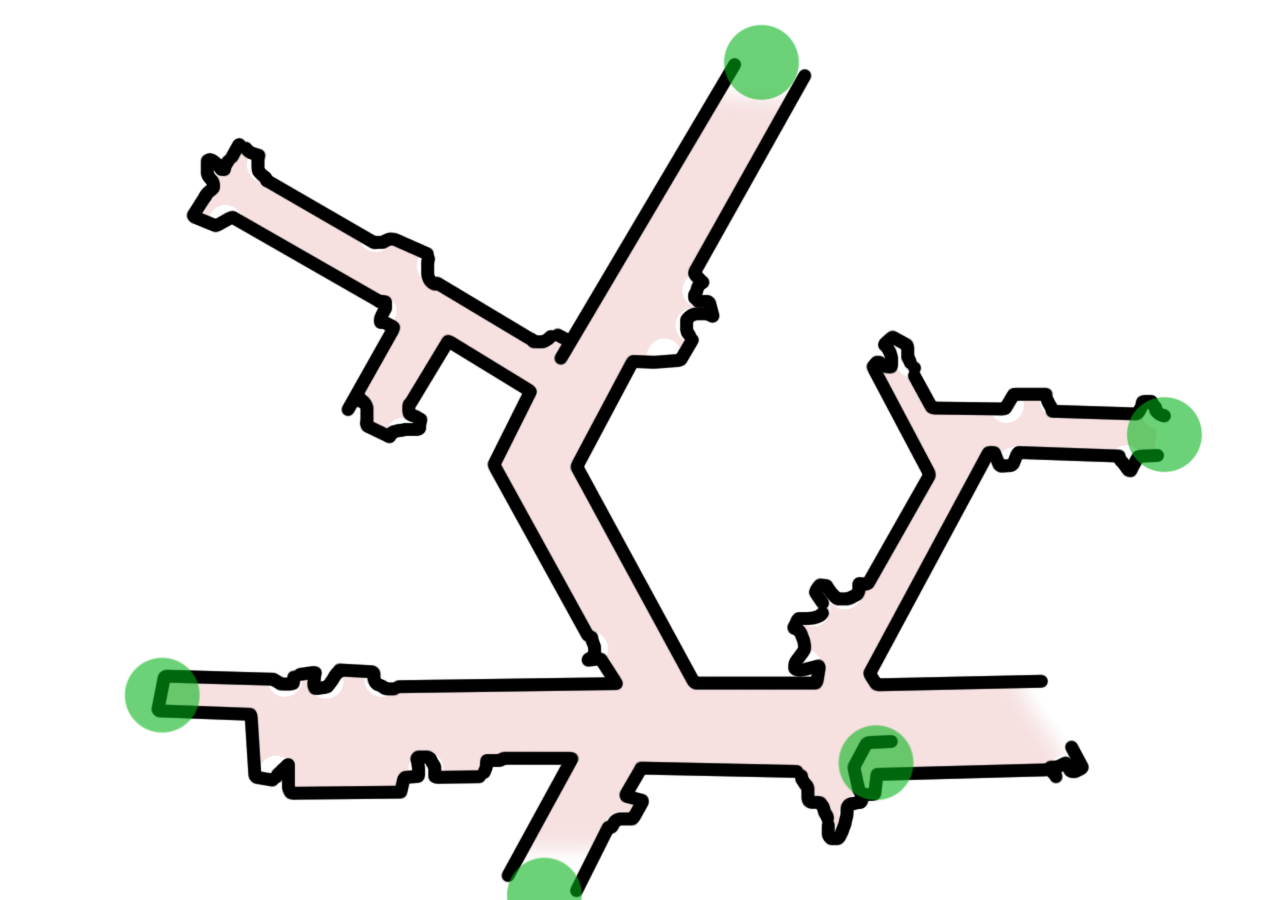
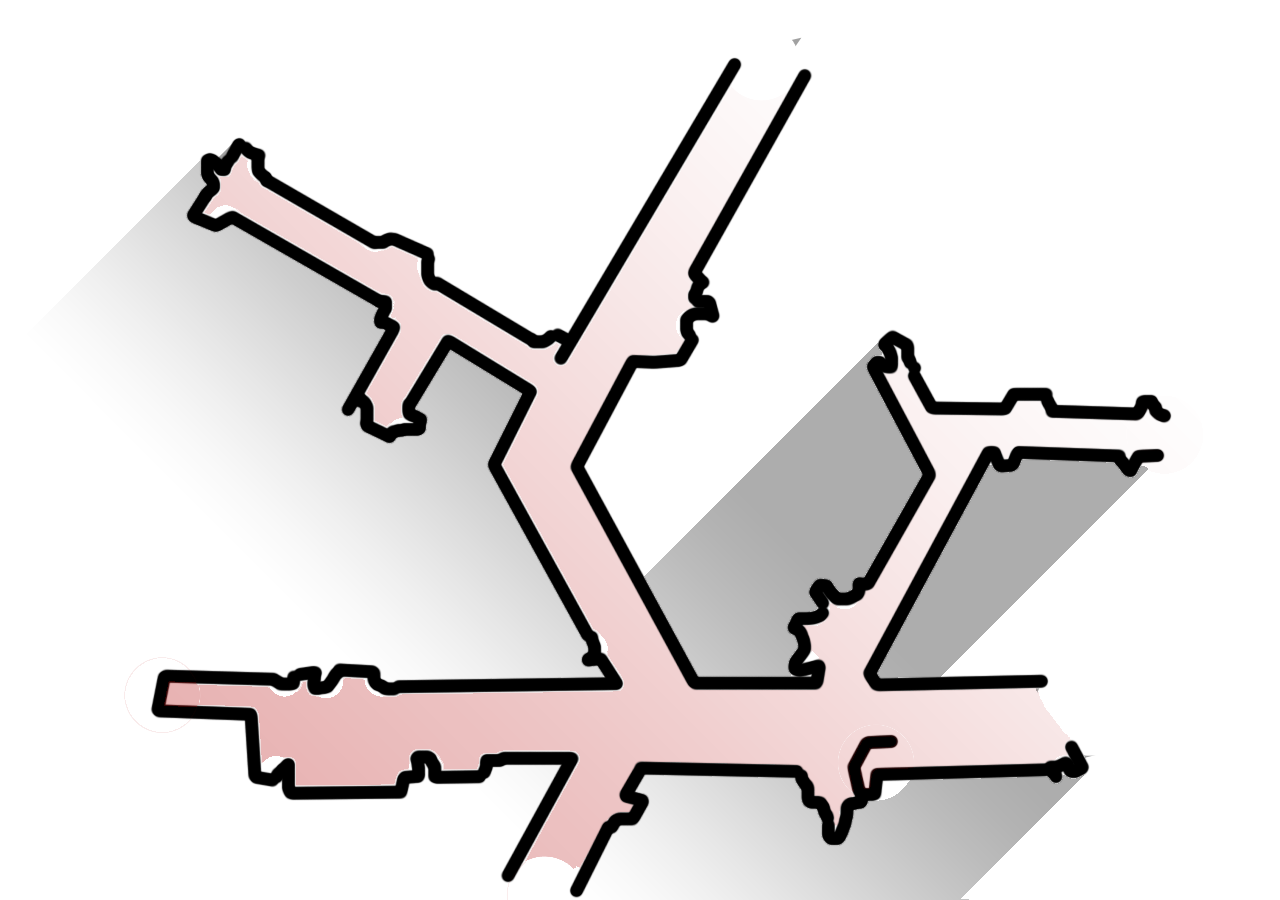
Finish 400 level

diff --git a/style.css b/style.css
@@ -38,16 +38,20 @@ html, body {
   background-color: transparent;
   border-top: 1px solid #B20202;
   border-bottom: 1px solid #B20202;
+  box-shadow: inset 0 0 0px 0px #000;
   transition: all 0.25s;
   -webkit-transition: all 0.25s;
 }
 
 .header-sub:hover {
   background-color: rgba(50, 50, 50, 0.15);
+  box-shadow: inset 0 0 5px 2.5px #000;
 }
 
 .header-sub.selected {
   background-color: #B20202 !important;
+  box-shadow: 0 0 5px 2.5px #000 !important;
+  z-index:10;
 }
 
 .header-sub h1 {
@@ -75,14 +79,14 @@ html, body {
   height: 100vh;
   position: relative;
   line-height: 100vh;
-  /* Permalink - use to edit and share this gradient: http://colorzilla.com/gradient-editor/#000000+0,000000+100&amp;0+0,0.21+100 */
-background: -moz-linear-gradient(left,  rgba(0,0,0,0) 0%, rgba(0,0,0,0.21) 100%); /* FF3.6+ */
-background: -webkit-gradient(linear, left top, right top, color-stop(0%,rgba(0,0,0,0)), color-stop(100%,rgba(0,0,0,0.21))); /* Chrome,Safari4+ */
-background: -webkit-linear-gradient(left,  rgba(0,0,0,0) 0%,rgba(0,0,0,0.21) 100%); /* Chrome10+,Safari5.1+ */
-background: -o-linear-gradient(left,  rgba(0,0,0,0) 0%,rgba(0,0,0,0.21) 100%); /* Opera 11.10+ */
-background: -ms-linear-gradient(left,  rgba(0,0,0,0) 0%,rgba(0,0,0,0.21) 100%); /* IE10+ */
-background: linear-gradient(to right,  rgba(0,0,0,0) 0%,rgba(0,0,0,0.21) 100%); /* W3C */
-filter: progid:DXImageTransform.Microsoft.gradient( startColorstr='#00000000', endColorstr='#36000000',GradientType=1 ); /* IE6-9 */
+  /* Permalink - use to edit and share this gradient: http://colorzilla.com/gradient-editor/#000000+0,000000+100&amp;0.21+0,0+100 */
+  background: -moz-linear-gradient(left,  rgba(0,0,0,0.21) 0%, rgba(0,0,0,0) 100%); /* FF3.6+ */
+  background: -webkit-gradient(linear, left top, right top, color-stop(0%,rgba(0,0,0,0.21)), color-stop(100%,rgba(0,0,0,0))); /* Chrome,Safari4+ */
+  background: -webkit-linear-gradient(left,  rgba(0,0,0,0.21) 0%,rgba(0,0,0,0) 100%); /* Chrome10+,Safari5.1+ */
+  background: -o-linear-gradient(left,  rgba(0,0,0,0.21) 0%,rgba(0,0,0,0) 100%); /* Opera 11.10+ */
+  background: -ms-linear-gradient(left,  rgba(0,0,0,0.21) 0%,rgba(0,0,0,0) 100%); /* IE10+ */
+  background: linear-gradient(to right,  rgba(0,0,0,0.21) 0%,rgba(0,0,0,0) 100%); /* W3C */
+  filter: progid:DXImageTransform.Microsoft.gradient( startColorstr='#36000000', endColorstr='#00000000',GradientType=1 ); /* IE6-9 */
 
 }
 
@@ -125,13 +129,13 @@ filter: progid:DXImageTransform.Microsoft.gradient( startColorstr='#00000000', e
   -webkit-transform-origin: 50% 50%;
   background-color: rgba(200, 0, 0, 1);
   /*border: 1px solid black;*/
-  box-shadow: 1px 1px 5px #000;
+  box-shadow: -1px 1px 5px #000;
   position: absolute;
   -webkit-transition: all 0.25s cubic-bezier(0.175, 0.885, 0.320, 1); /* older webkit */
-  -webkit-transition: all 0.25s cubic-bezier(0.175, 0.885, 0.320, 1.275);
-     -moz-transition: all 0.25s cubic-bezier(0.175, 0.885, 0.320, 1.275);
-       -o-transition: all 0.25s cubic-bezier(0.175, 0.885, 0.320, 1.275);
-          transition: all 0.25s cubic-bezier(0.175, 0.885, 0.320, 1.275); /* easeOutBack */
+  -webkit-transition: all 0.25s cubic-bezier(0.175, 0.885, 0.320, 2);
+     -moz-transition: all 0.25s cubic-bezier(0.175, 0.885, 0.320, 2);
+       -o-transition: all 0.25s cubic-bezier(0.175, 0.885, 0.320, 2);
+          transition: all 0.25s cubic-bezier(0.175, 0.885, 0.320, 2); /* easeOutBack */
 }
 
 .room > p {
@@ -147,7 +151,7 @@ filter: progid:DXImageTransform.Microsoft.gradient( startColorstr='#00000000', e
 .room:hover {
   z-index: 1;
   opacity: 1;
-  box-shadow: 4px 4px 10px #000;
+  box-shadow: -7px 7px 15px #000;
   background-color: rgba(255, 50, 50, 1);
   transform: scale(1.25);
   -webkit-transform: scale(1.25);
@@ -156,6 +160,7 @@ filter: progid:DXImageTransform.Microsoft.gradient( startColorstr='#00000000', e
 .info-outer {
   height: 75px;
   width: 200px;
+  box-shadow: -5px 5px 10px #000;
   pointer-events: none;
   background-color: white;
   border: 1px solid #B20202;

diff --git a/rooms.js b/rooms.js
@@ -51,6 +51,20 @@ $(document).ready(function() {
   floors[4][16] = new Room (64, 90, '407', 'some creepy closet crap');
   floors[4][17] = new Room (62, 86, '408-1', 'another cool classroom thingy');
   floors[4][18] = new Room (48, 87, '408-2', 'another entrance to 408');
+  floors[4][19] = new Room (37, 83, '410', 'closet crap');
+  floors[4][20] = new Room (31, 84, '411-1', 'Biology room entrance');
+  floors[4][21] = new Room (22, 84, '411-2', 'Biology room alternate entrance');
+  floors[4][22] = new Room (21, 74, '413', 'Greenhouse entrance');
+  floors[4][23] = new Room (25, 73, '414-1', 'Another biology room entrance');
+  floors[4][24] = new Room (28, 73, '415-1', 'no idea what this is');
+  floors[4][25] = new Room (45, 70, '415-2', 'another entrance to 415');
+  floors[4][26] = new Room (42, 35, '422-1', 'some chem lab thing');
+  floors[4][27] = new Room (32, 46, '415-3', 'ANOTHER WAY INTO 415???');
+  floors[4][28] = new Room (27, 44, '414-2', 'really more bio entrances why is this necessary');
+  floors[4][29] = new Room (33, 29, '422-2', 'that stupid chem lab again');
+  floors[4][30] = new Room (29, 26, '421-1', 'and another chem lab how many are there');
+  floors[4][31] = new Room (19, 17, '421-2', 'wow enough with all these chem labs seriously');
+  floors[4][32] = new Room (16, 23, '422-3', 'how many bio entrances can you have');
   searchForRoom = function(wat) {
     var currFloor = wat[0];
     for(i = 0; i < floors[currFloor].length; i++) {
@@ -75,4 +89,23 @@ $(document).ready(function() {
     clearTimeout(infoTime);
     infoTime = setTimeout(function() {$(".info-outer").css("opacity", "0")}, 1000);
   })
+
+
+
+
+});
+
+$(function() {
+$("#f4-content").click(function(e) {
+
+  var offset = $(this).offset();
+  var height = $(this).height();
+  var width = $(this).width();
+  var relativeX = ((e.pageX - offset.left));
+  var relativeY = ((e.pageY - offset.top));
+  relativeX = relativeX*100/width;
+  relativeY = relativeY*100/height;
+  alert("X: " + parseInt(relativeX) + "  Y: " + parseInt(relativeY));
+
+});
 });
